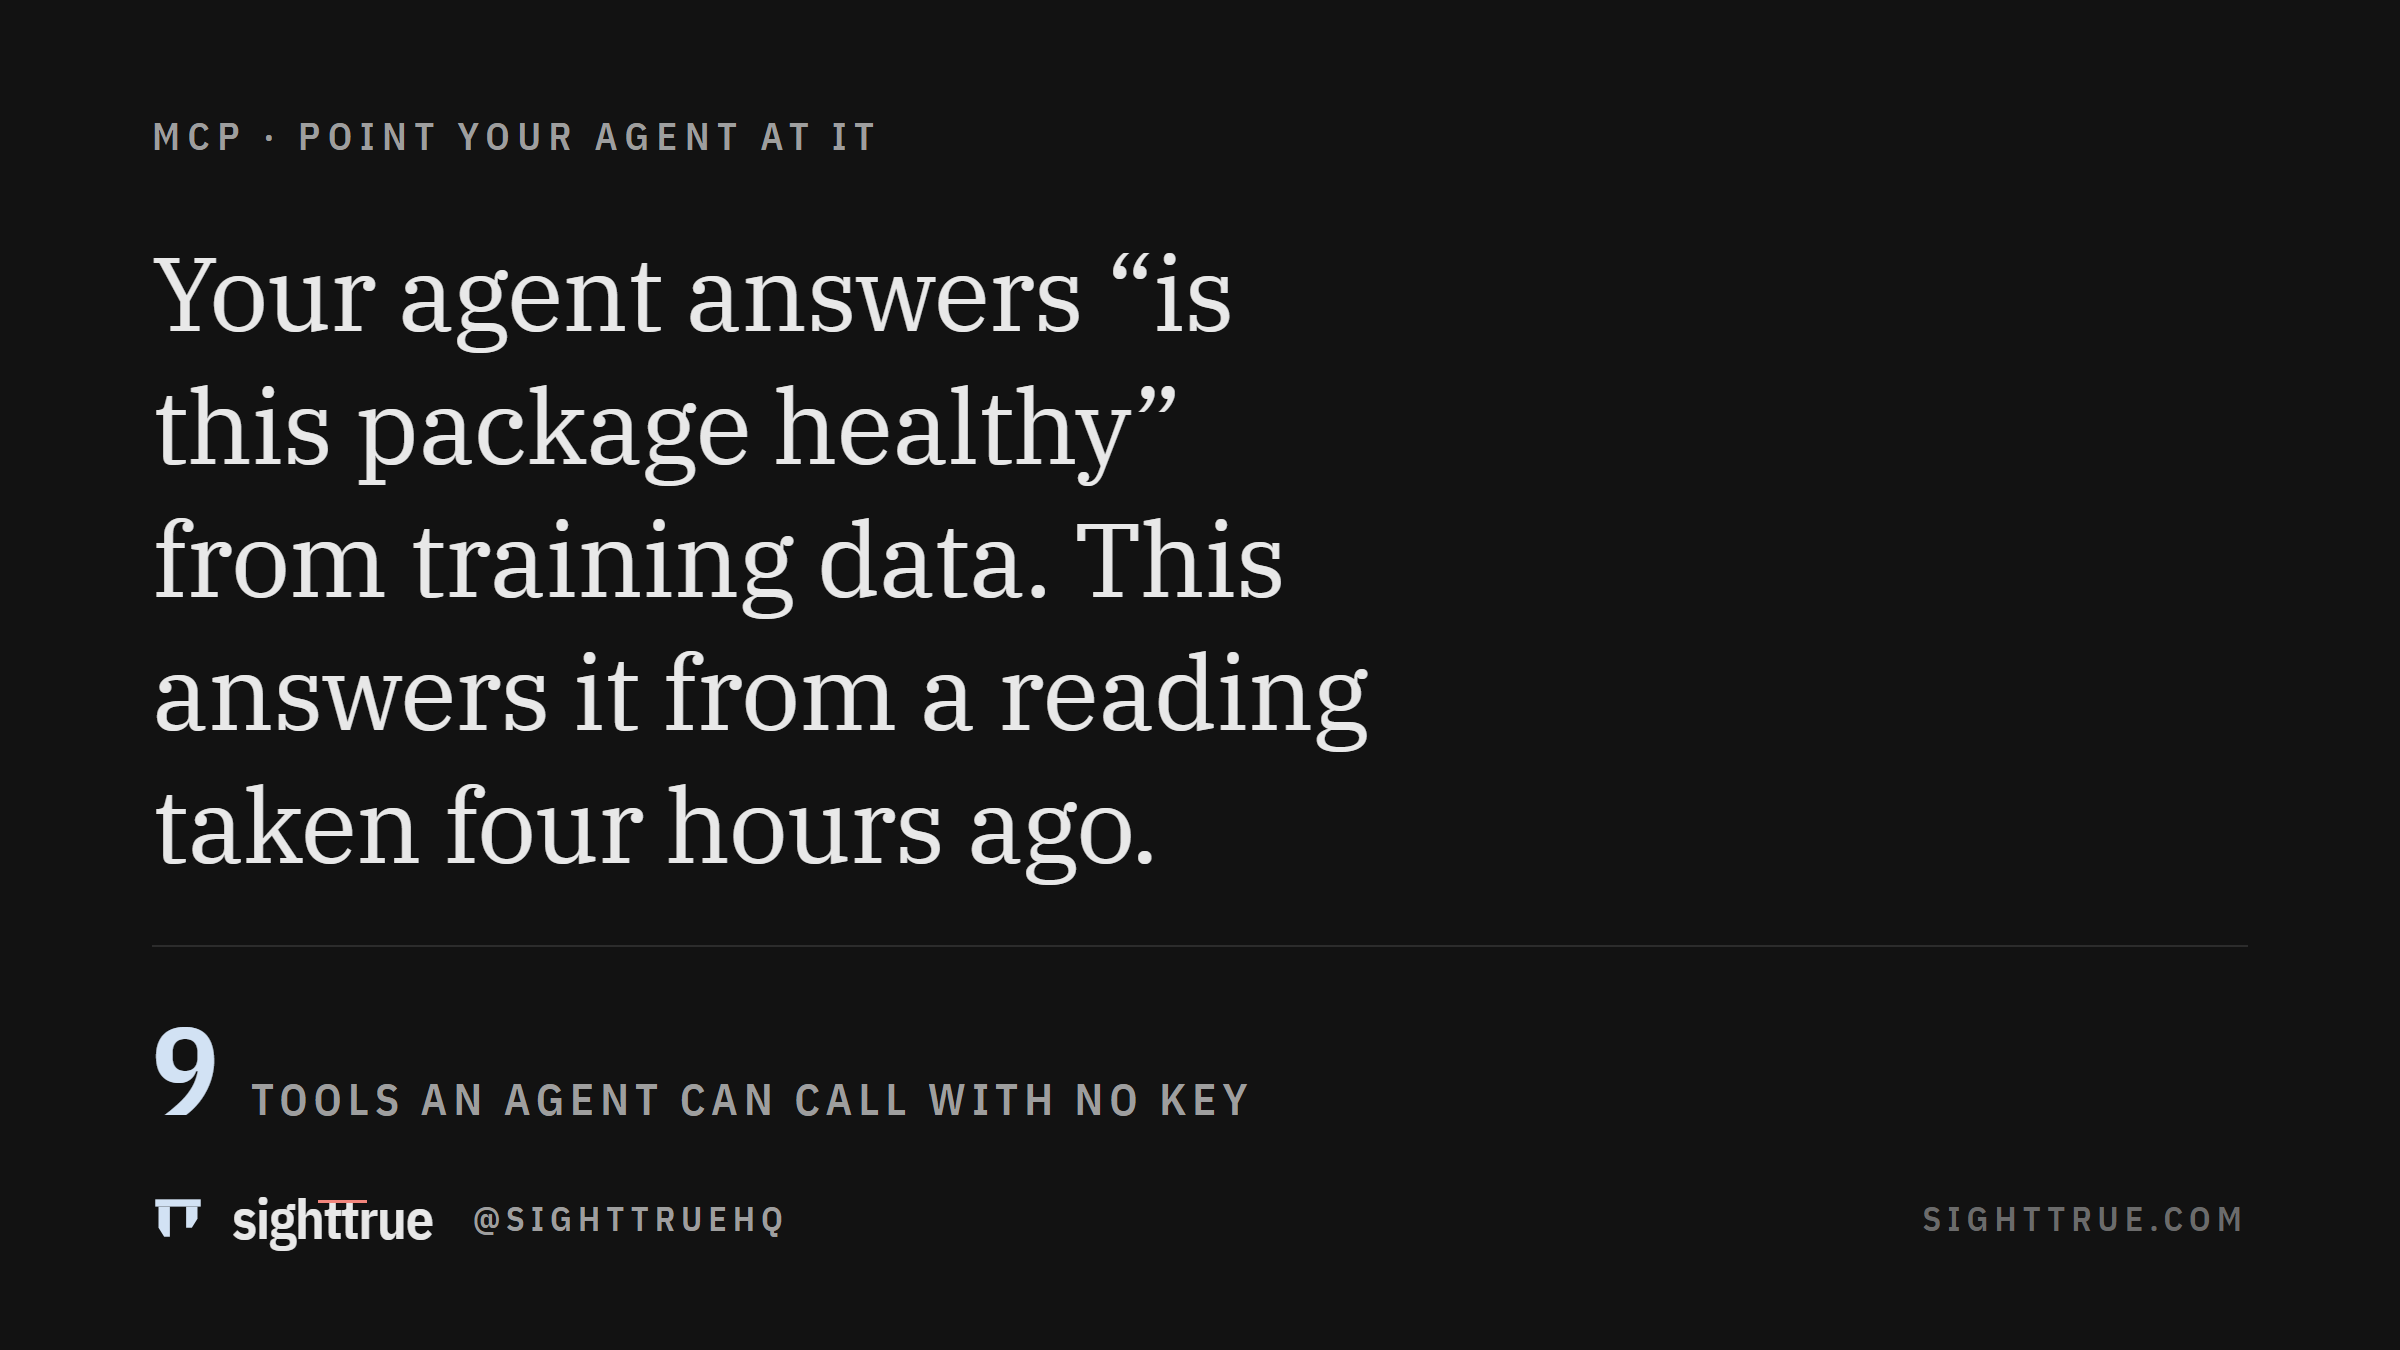
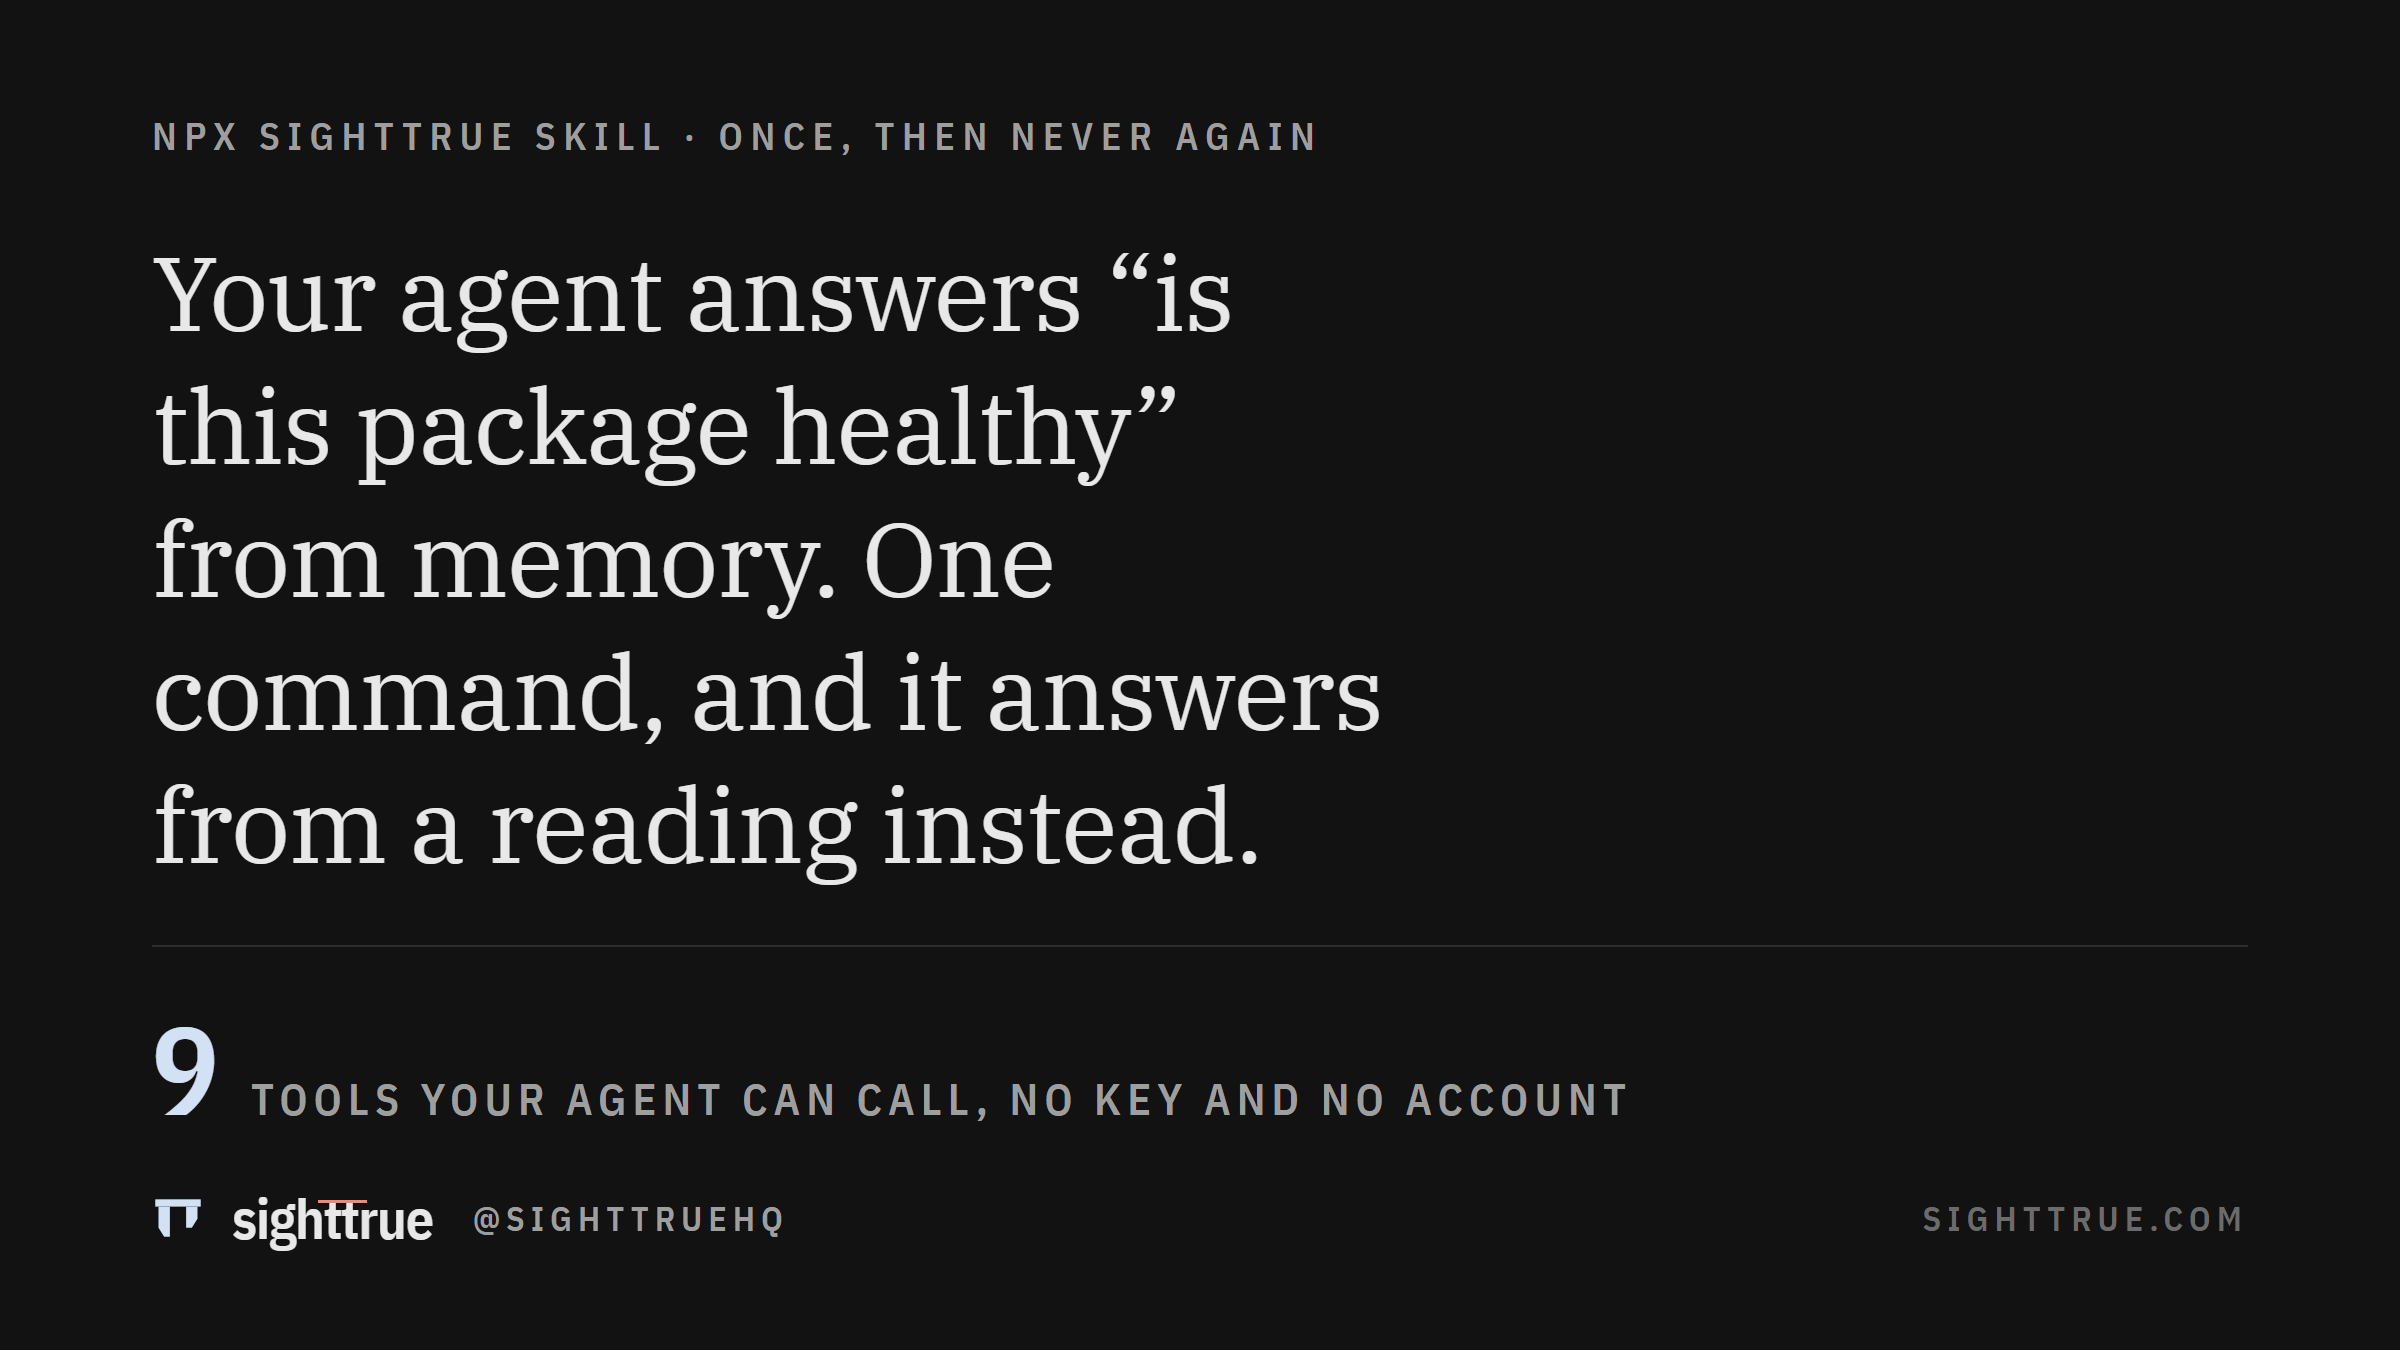
content(posts): post 7 leads with the command, now that it exists
Rewritten after sighttrue@1.4.0 shipped — verified by pulling the published tarball, which carries all six skill files. The skill changes what the post asks for: not 'read about our MCP server' but one line, once, after which the agent checks without anybody remembering to.

The command is the post. Everything else on this account describes a measurement; this one asks for an action, and the action is short enough to run before deciding whether to trust it, which is the right order for a tool nobody has heard of. The link goes to npmjs.com rather than the MCP URL because the reader should see the package is real before running anything on their machine.

The card ran to six lines on the first render and dropped the figure onto the wordmark, the same overflow as the held-back card. Cut to five and checked by looking at it.

The twenty-two paid tools are still unmentioned. They cannot be paid for, and naming a price nobody can pay is the one claim on this account that could not be checked.

Changed region(s): [[0.0625, 0.3733, 0.5938, 0.6533], [0.1562, 0.7778, 0.6875, 0.84], [0.0625, 0.0933, 0.5625, 0.1244]]

diff --git a/assets/brand/post-10-mcp.html b/assets/brand/post-10-mcp.html
@@ -68,10 +68,10 @@
 </style></head>
 <body>
   <div class="frame">
-    <span class="eyebrow">MCP · point your agent at it</span>
-    <p class="say">Your agent answers “is this package healthy” from training data. This answers it from a reading taken four hours ago.</p>
+    <span class="eyebrow">npx sighttrue skill · once, then never again</span>
+    <p class="say">Your agent answers “is this package healthy” from memory. One command, and it answers from a reading instead.</p>
     <div class="rule"></div>
-    <div class="proof"><b>9</b> <span>tools an agent can call with no key</span></div>
+    <div class="proof"><b>9</b> <span>tools your agent can call, no key and no account</span></div>
   </div>
   <div class="foot">
     <span class="mark"><svg xmlns="http://www.w3.org/2000/svg" viewBox="0 0 64 64" width="26" height="26" role="img" aria-label="Sighttrue">

diff --git a/assets/brand/POSTS.md b/assets/brand/POSTS.md
@@ -220,30 +220,47 @@ A network problem is never a finding — if the readings cannot be fetched, the
 step says so and passes. Worth saying in a reply if anybody asks, because a
 build that breaks when a third-party site is down is a build that gets deleted.
 
-## 7 — The MCP server
+## 7 — One command
 
-The last of the sequence and the one with the clearest action attached. It is
-also the only post here that asks for nothing: no signup, no key, no account.
+The last of the sequence and the only one with something to paste. Rewritten
+after `sighttrue@1.4.0` shipped, because the skill changes what this post is
+asking for: not "read about our MCP server" but one line, once, after which the
+agent does the checking without anybody remembering to.
 
-> Point your coding agent at this and it stops guessing.
+> Your coding agent recommends packages from training data. It has no idea which
+> of them were deprecated last year.
 >
-> Nine tools, no key and no account: whether a package was withdrawn, whether it
-> runs scripts when installed, how many advisories are on record, when the
-> registry last released it, and when the runtime it needs stops getting fixes.
+> ```
+> npx sighttrue skill
+> ```
 >
-> Every answer carries the address of whoever published it, so anything your
-> agent quotes into a review can be checked by whoever reads it.
+> One command. From then on it takes a reading before adding a dependency, a
+> base image, a runtime version or a model — and quotes the source, so whoever
+> reads the pull request can check it.
 >
-> sighttrue.com/api/mcp
+> Nine tools, no key and no account.
+>
+> npmjs.com/package/sighttrue
 
 *Attach `post-10-mcp.png`.*
 
-"It stops guessing" is the strongest line available and it is literally true —
-the tools return readings taken hours ago rather than remembered from a training
-cut. Nine is the free count, read from `mcp-catalogue.ts` at build time; the
-paid tools exist but are not mentioned, because a post that opens a sequence by
-naming a price nobody can pay yet is the one claim on this account that cannot
-be checked.
+The command is the post. Everything else on this account describes a
+measurement; this one asks for an action, and the action is short enough to run
+before deciding whether to trust it — which is the right order for a tool nobody
+has heard of.
+
+"It has no idea" is not an insult and should not be softened into one. The model
+is answering from before the notice existed, which is a fact about timing rather
+than capability, and post 5 already made that argument at length.
+
+Nine is the free count, read from `mcp-catalogue.ts` at build time. The
+twenty-two paid tools are not mentioned: they cannot be paid for yet, and naming
+a price nobody can pay is the one claim on this account that could not be
+checked.
+
+The npm link rather than the MCP URL, because the command is what the reader
+acts on and `npmjs.com` shows them the package is real before they run anything
+on their machine.
 
 ---
 
